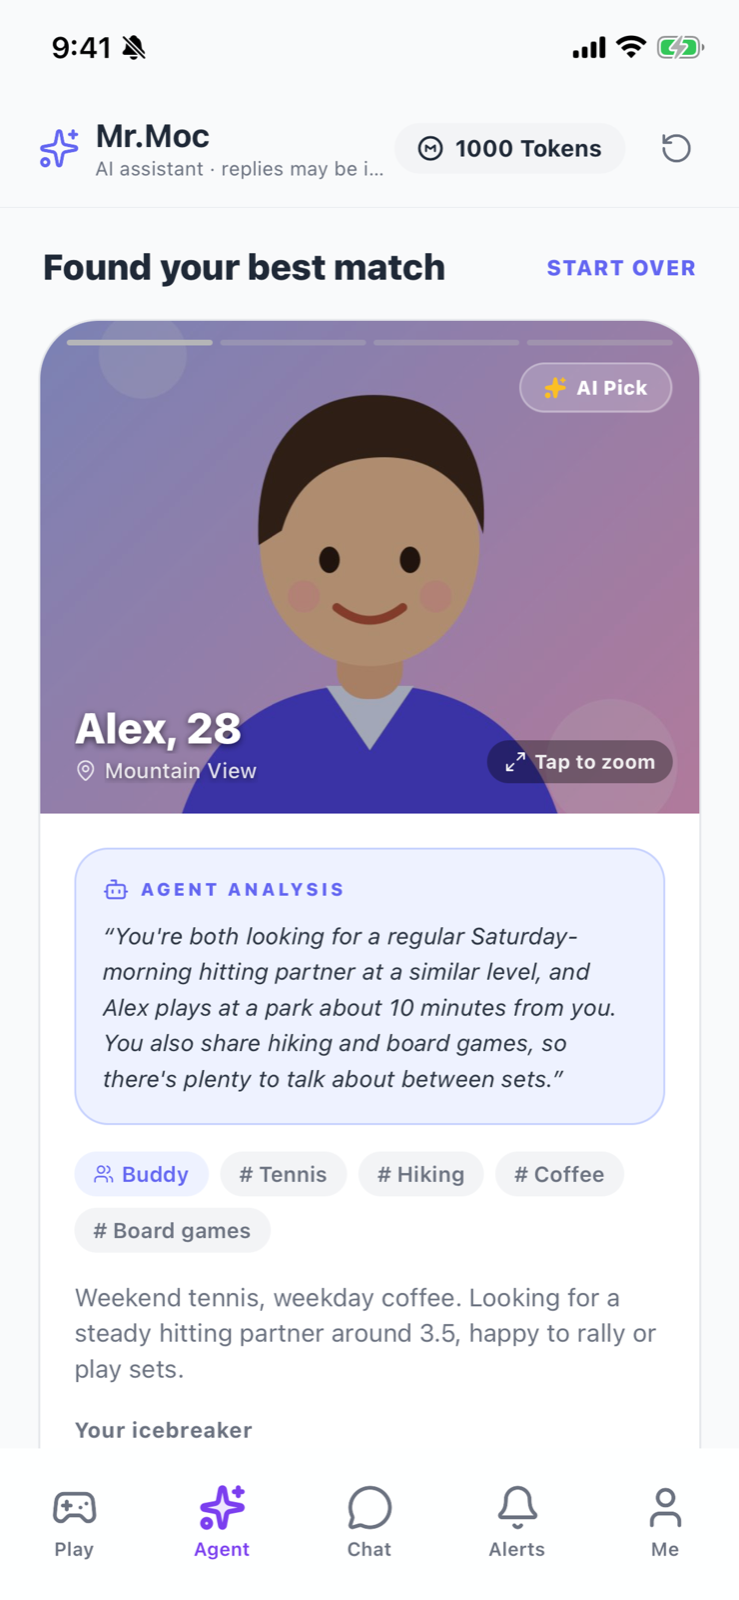
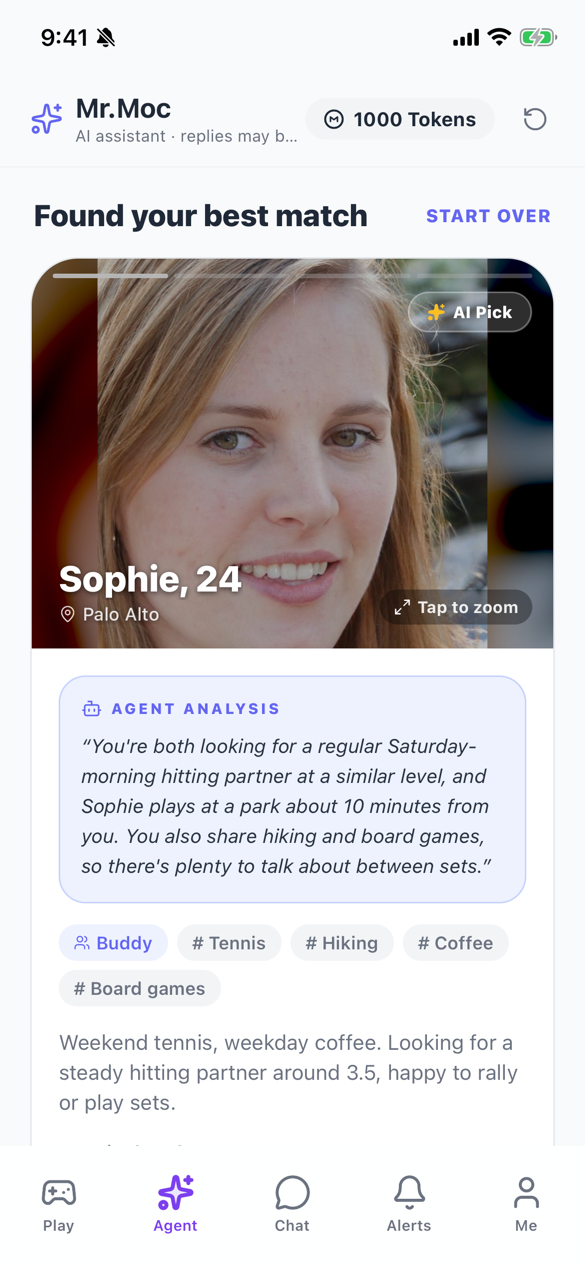
官网 Mr.Moc 匹配卡截图：卡通头像换成 AI 生成真人（Sophie, 24）
- 结果卡在模拟器重拍：头像为合成人脸（不对应任何真人），横版头图两侧用模糊填充
- 名字 Alex → Sophie，28 → 24，Mountain View → Palo Alto，匹配分析称呼同步

diff --git a/index.html b/index.html
@@ -350,7 +350,7 @@ html[data-lang="zh"] h2{line-height:1.2}
           <p class="live-line" data-lang="zh">自然语言匹配已在 iOS 上线，Android 版本开发中。</p>
         </div>
         <div class="phone">
-          <img src="assets/shot-match.png" alt="Mr.Moc found your best match: a profile card with an agent analysis explaining why it fits, shared interests and an icebreaker" width="739" height="1600" loading="lazy" decoding="async">
+          <img src="assets/shot-match.png" alt="Mr.Moc found your best match: Sophie, 24, with an agent analysis explaining why it fits, shared interests and an icebreaker" width="739" height="1600" loading="lazy" decoding="async">
           <span class="status-tag" data-lang="en">One match · a reason · an icebreaker</span><span class="status-tag" data-lang="zh">一个匹配 · 一个理由 · 一句开场白</span>
         </div>
       </div>
